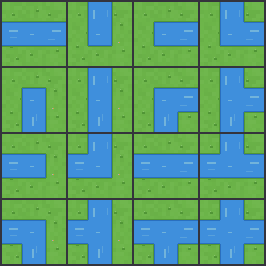
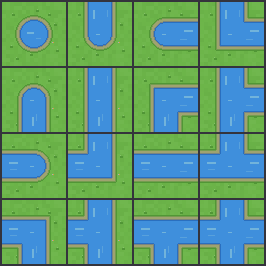
Give the river a shore, a nose and a pond (#12)
* Give the river a shore, a nose and a pond

The round-5 review read the water on first_steps as a hard-edged rectangle
with a pale outline: river_tile filled a blue bar straight onto the grass,
ended a run with a sawn-off square, and drew mask 0 as an E|W bar. The coast
family has had all three treatments since it shipped; rivers never got them.

The channel is now cut into a 4px bank each side — silt, its shaded outer
edge and a wet lip at the waterline, every tone mixed from the SAND/GRASS/
WATER constants the atlas already authors under the terrain ceiling rather
than written as fresh hexes (the woods-seam rule). A one-connection run ends
on a rounded nose centred in the joint square, and mask 0 is a banked pond,
since a watercourse joined to nothing is a pool.

RiverBanks pins it the way WoodsSeam pins the plate: the bank tones lie
between their parent constants and under the plains ground band (against the
pre-ceiling green as the control), no grass pixel touches water on any mask
(against the old hard-edged fill, which has plenty), a terminating run is
narrower at its nose than a through-run, and mask 0 reaches no edge and is
ringed on all four axes.

Snapshots: rivers.png, bridges.png (the deck now abuts banks) and
preview_map.png. Every other snapshot byte-identical.

* Pin the lip test to the art it replaced

test_every_bank_edge_carries_a_lip only refused a raw fill: the shipped
river already fenced its water with a one-pixel GRASS_DARK outline, which is
[…]

diff --git a/tests/test_generated_output.py b/tests/test_generated_output.py
@@ -42,6 +42,7 @@ from spritegen.terrain import (
     TIMBER,
     WATER,
     WATER_DARK,
+    WATER_LIGHT,
     WOODS_SALT,
 )
 from spritegen.units import ATLAS_ORDER, build_model
@@ -481,11 +482,13 @@ class AutotileMasks(unittest.TestCase):
                     self._edges_reaching(autotile.river_tile(mask), WATER_TONES), mask
                 )
 
-    def test_mask_zero_falls_back_to_east_west(self):
+    def test_a_roads_mask_zero_falls_back_to_east_west(self):
         self.assertEqual(self._edges_reaching(autotile.road_tile(0), ROAD_TONES), E | W)
-        self.assertEqual(
-            self._edges_reaching(autotile.river_tile(0), WATER_TONES), E | W
-        )
+
+    def test_a_rivers_mask_zero_is_a_pond_rather_than_a_bar(self):
+        # a watercourse joined to nothing is a pool, so it reaches no edge —
+        # against the E|W bar the same mask used to draw
+        self.assertEqual(self._edges_reaching(autotile.river_tile(0), WATER_TONES), 0)
 
     def test_sheets_lay_all_sixteen_masks_out_row_major(self):
         sheet = autotile.variant_sheet(autotile.road_tile)
@@ -604,6 +607,134 @@ class WoodsSeam(unittest.TestCase):
             autotile.woods_tile(15).convert("RGB").tobytes(),
             terrain.woods().convert("RGB").tobytes(),
         )
+
+
+class RiverBanks(unittest.TestCase):
+    """A river has a shore, the way the coast family already does.
+
+    The round-5 review read the water on `first_steps` as "a hard-edged
+    rectangle with a pale outline, no shore blend": `river_tile` filled a blue
+    bar straight onto the grass, ended a run with a sawn-off square, and drew
+    mask 0 as an E|W bar rather than as the pool a cell joined to nothing is.
+    These pin the three fixes, each against a control that would have passed
+    before them.
+    """
+
+    OLD_PLATE_GREEN = WoodsSeam.OLD_PLATE_GREEN
+    BANK_TONES = (autotile.BANK, autotile.BANK_DARK, autotile.BANK_WET)
+    # Every tone a river's water can be: the channel, its rim, the glints.
+    WATER_FAMILY = frozenset(
+        {WATER, WATER_DARK, WATER_LIGHT, palette.mix(WATER, WATER_LIGHT, 0.5)}
+    )
+
+    def _ground(self) -> set[tuple[int, int, int]]:
+        return set(opaque_pixels(terrain._ground(GRASS, PLAINS_SALT)))
+
+    def _hard_edged(self, mask: int, outline=None):
+        """The tile as it was drawn before this pass: water straight onto the
+        plate, its only lip the one-pixel outline the edge pass drew."""
+        t = terrain.plains()
+        autotile._fill_arms(t, mask, autotile._WLO, autotile._WHI, WATER)
+        if outline is not None:
+            autotile._edge_pass(t, lambda c: c == WATER, WATER_DARK, outline)
+        return t
+
+    def _water_meeting_no_bank(self, tile) -> int:
+        """Water pixels with a neighbour that is neither water nor bank — the
+        waterline running straight onto the plate or onto a bare outline."""
+        px = tile.convert("RGB").load()
+        bank = set(self.BANK_TONES)
+        return sum(
+            1
+            for y in range(CELL)
+            for x in range(CELL)
+            if px[x, y] in self.WATER_FAMILY
+            and any(
+                px[nx, ny] not in self.WATER_FAMILY and px[nx, ny] not in bank
+                for nx, ny in ((x - 1, y), (x + 1, y), (x, y - 1), (x, y + 1))
+                if 0 <= nx < CELL and 0 <= ny < CELL
+            )
+        )
+
+    def _water_in_row(self, tile, y: int) -> int:
+        px = tile.convert("RGB").load()
+        return sum(1 for x in range(CELL) if px[x, y] in self.WATER_FAMILY)
+
+    def test_the_bank_is_mixed_from_the_ground_constants(self):
+        """Shared derivation, never a copied hex — the woods-seam rule: a bank
+        carrying its own tan would step against the shore tones the moment
+        either moved."""
+        parents = {
+            autotile.BANK: (terrain.SAND, terrain.GRASS_DARK),
+            autotile.BANK_DARK: (autotile.BANK, terrain.GRASS_DARK),
+            autotile.BANK_WET: (terrain.SAND_DARK, WATER_DARK),
+        }
+        for tone, (a, b) in parents.items():
+            with self.subTest(tone=tone):
+                self.assertNotIn(tone, (a, b))
+                for ch, pair in zip(tone, zip(a, b)):
+                    self.assertGreaterEqual(ch, min(pair))
+                    self.assertLessEqual(ch, max(pair))
+
+    def test_no_bank_tone_out_keys_the_plains_ground(self):
+        hi = max(terrain.luminance(c) for c in self._ground())
+        # worth asserting only if it refuses the pre-ceiling green that caused
+        # the woods seam — the same control, since this is the same rule
+        self.assertGreater(terrain.luminance(self.OLD_PLATE_GREEN), hi)
+        for tone in self.BANK_TONES:
+            with self.subTest(tone=tone):
+                self.assertLessEqual(terrain.luminance(tone), hi)
+
+    def test_no_river_pixel_reaches_the_unit_band(self):
+        for mask in range(16):
+            with self.subTest(mask=mask):
+                for c in set(opaque_pixels(autotile.river_tile(mask))):
+                    self.assertLessEqual(terrain.luminance(c), TERRAIN_VALUE_CEILING)
+
+    def test_every_bank_edge_carries_a_lip(self):
+        # both controls are how the river used to be drawn: bare water on the
+        # plate, and water fenced by the one-pixel dark-grass outline the
+        # round-5 review read as "a pale outline, no shore blend"
+        self.assertGreater(self._water_meeting_no_bank(self._hard_edged(E | W)), 0)
+        self.assertGreater(
+            self._water_meeting_no_bank(self._hard_edged(E | W, terrain.GRASS_DARK)), 0
+        )
+        for mask in range(16):
+            with self.subTest(mask=mask):
+                self.assertEqual(
+                    self._water_meeting_no_bank(autotile.river_tile(mask)), 0
+                )
+
+    def test_a_run_that_terminates_tapers_to_a_nose(self):
+        # a row 11px past the joint centre: through-flow keeps the full
+        # channel there, a terminating run has rounded most of it away
+        far = CELL // 2 + 11
+        self.assertEqual(
+            self._water_in_row(autotile.river_tile(N | S), far),
+            autotile._WHI - autotile._WLO,
+        )
+        narrowed = self._water_in_row(autotile.river_tile(N), far)
+        self.assertGreater(narrowed, 0)
+        self.assertLess(narrowed, autotile._WHI - autotile._WLO)
+
+    def test_mask_zero_is_a_pond_ringed_on_every_side(self):
+        px = autotile.river_tile(0).convert("RGB").load()
+        mid = CELL // 2
+        self.assertIn(px[mid, mid], self.WATER_FAMILY)
+        bank = set(self.BANK_TONES)
+        ground = self._ground()
+        for dx, dy in ((0, -1), (1, 0), (0, 1), (-1, 0)):
+            with self.subTest(direction=(dx, dy)):
+                walk = [
+                    px[mid + dx * k, mid + dy * k]
+                    for k in range(1, mid)
+                    if 0 <= mid + dx * k < CELL and 0 <= mid + dy * k < CELL
+                ]
+                water = max(i for i, c in enumerate(walk) if c in self.WATER_FAMILY)
+                ringed = [i for i, c in enumerate(walk) if c in bank]
+                self.assertTrue(ringed)
+                self.assertGreater(min(ringed), water)
+                self.assertIn(walk[-1], ground)
 
 
 class RowSeparation(unittest.TestCase):

diff --git a/spritegen/autotile.py b/spritegen/autotile.py
@@ -9,7 +9,8 @@ edge. The demo map composes from these, and sprite_generator exports the
 variant sheets under out/autotiles/. Deterministic like everything else here.
 
 Connection masks are N|E|S|W bits naming which neighbours continue the
-feature (for coast: which edges touch land). Mask 0 falls back to E|W.
+feature (for coast: which edges touch land). A road's mask 0 falls back to
+E|W; a river's is a pond, since a watercourse joined to nothing is a pool.
 """
 
 from __future__ import annotations
@@ -44,6 +45,39 @@ from .terrain import (
 
 _RLO, _RHI = 22, 42  # road band bounds (20px wide)
 _WLO, _WHI = 20, 44  # river channel bounds (24px wide)
+_BLO, _BHI = 16, 48  # the bank the channel is cut into: 4px of shore a side
+
+# Bank tones, mixed from the ground and water constants the atlas already
+# authors under the terrain ceiling rather than written as fresh hexes — the
+# woods-seam rule: a bank that carried its own green would step against the
+# plains it borders the moment either moved. Silt where the grass gives out,
+# its shaded outer edge, and wet mud at the waterline.
+BANK = mix(SAND, GRASS_DARK, 0.2)
+BANK_DARK = mix(BANK, GRASS_DARK, 0.55)
+BANK_WET = mix(SAND_DARK, WATER_DARK, 0.25)
+
+# A run that stops has a rounded nose rather than a sawn-off bar: the water
+# ends on a semicircle centred in the joint square, the bank ringing it at the
+# same width it keeps along the channel.
+_HEAD_R = (_WHI - _WLO) / 2
+_BANK_R = _HEAD_R + (_WLO - _BLO)
+_POND_R = 14.0  # a standalone cell reads as a pool, so its water is wider
+
+
+def _closed_half(x: int, y: int, open_bit: int) -> bool:
+    """Whether a pixel is past the joint centre on the side a one-connection
+    run terminates — the half the nose is cut into."""
+    return {
+        N: y * 2 >= CELL,
+        S: y * 2 < CELL,
+        E: x * 2 < CELL,
+        W: x * 2 >= CELL,
+    }[open_bit]
+
+
+def _radius(x: int, y: int) -> float:
+    half = CELL / 2
+    return ((x + 0.5 - half) ** 2 + (y + 0.5 - half) ** 2) ** 0.5
 
 
 def _fill_arms(img: Image.Image, mask: int, lo: int, hi: int, c) -> None:
@@ -105,15 +139,60 @@ def road_tile(mask: int) -> Image.Image:
     return t
 
 
+def _shape_river(t: Image.Image, base: Image.Image, mask: int) -> None:
+    """Cut the channel and its banks into the plains plate `t`, `base` being
+    the untouched plate a rounded end gives ground back to."""
+    if mask == 0:
+        _disc(t, base, _POND_R)
+        return
+    _fill_arms(t, mask, _BLO, _BHI, BANK)
+    _fill_arms(t, mask, _WLO, _WHI, WATER)
+    if mask in (N, E, S, W):
+        _round_head(t, base, mask)
+
+
+def _disc(t: Image.Image, base: Image.Image, water_r: float) -> None:
+    """A banked pool: water inside `water_r`, a bank the channel's own width
+    around it, the plate itself beyond — a lone cell is a pond, not a bar."""
+    px, bp = t.load(), base.load()
+    for y in range(CELL):
+        for x in range(CELL):
+            d = _radius(x, y)
+            if d <= water_r:
+                px[x, y] = (*WATER, 255)
+            elif d <= water_r + (_WLO - _BLO):
+                px[x, y] = (*BANK, 255)
+            else:
+                px[x, y] = bp[x, y]
+
+
+def _round_head(t: Image.Image, base: Image.Image, open_bit: int) -> None:
+    """Taper the closed end of a one-connection run to a rounded nose."""
+    px, bp = t.load(), base.load()
+    for y in range(CELL):
+        for x in range(CELL):
+            if not _closed_half(x, y, open_bit):
+                continue
+            d = _radius(x, y)
+            if d <= _HEAD_R:
+                continue
+            px[x, y] = (*BANK, 255) if d <= _BANK_R else bp[x, y]
+
+
 def river_tile(mask: int, salt: int = 0) -> Image.Image:
     """A river channel to each connected edge, banked and streaked to match
     its flow direction. `salt` shifts the streak placement so a run of
     same-mask tiles doesn't chain its glints into a dashed line."""
+    base = plains()
+    t = base.copy()
+    _shape_river(t, base, mask)
+    shore = {BANK, WATER}
+    _edge_pass(t, lambda c: c in shore, BANK_DARK, GRASS_DARK)
+    _edge_pass(t, lambda c: c == WATER, WATER_DARK, BANK_WET)
     if mask == 0:
-        mask = E | W
-    t = plains()
-    _fill_arms(t, mask, _WLO, _WHI, WATER)
-    _edge_pass(t, lambda c: c == WATER, WATER_DARK, GRASS_DARK)
+        _rect(t, 25, 30, 7, 2, WATER_LIGHT)
+        _rect(t, 34, 36, 5, 1, mix(WATER, WATER_LIGHT, 0.5))
+        return t
     # flow streaks oriented along each arm, drifted per tile
     half = mix(WATER, WATER_LIGHT, 0.5)
     d1 = int(h01(salt, 1, 45) * 10) - 5

diff --git a/README.md b/README.md
@@ -114,8 +114,13 @@ tree line on the rest (so a stand of trees stops ending in a razor cut
 against the grass). Each connection sheet lays out masks 0-15 row-major (bit
 order N=1, E=2, S=4, W=8); `bridges.png` carries its two decks side by side.
 Mask 15 on the woods sheet is the atlas tile exactly, so only a wood's fringe
-leaves the base sheet. The demo map composes from these, which is why its
-roads connect and its island has a shoreline; the atlases themselves are
+leaves the base sheet. A river is cut into a bank rather than laid on the
+grass — silt, its shaded outer edge and a wet lip at the waterline, all mixed
+from the same ground constants the plains and shoal tones come from — a run
+that stops ends on a rounded nose, and a river's mask 0 is a banked pond,
+since a watercourse joined to nothing is a pool rather than an E-W bar. The
+demo map composes from these, which is why its roads connect and its island
+has a shoreline; the atlases themselves are
 unchanged drop-ins.
 
 Note the game's `make tiles` rebuilds its atlases from its own PixVoxel
